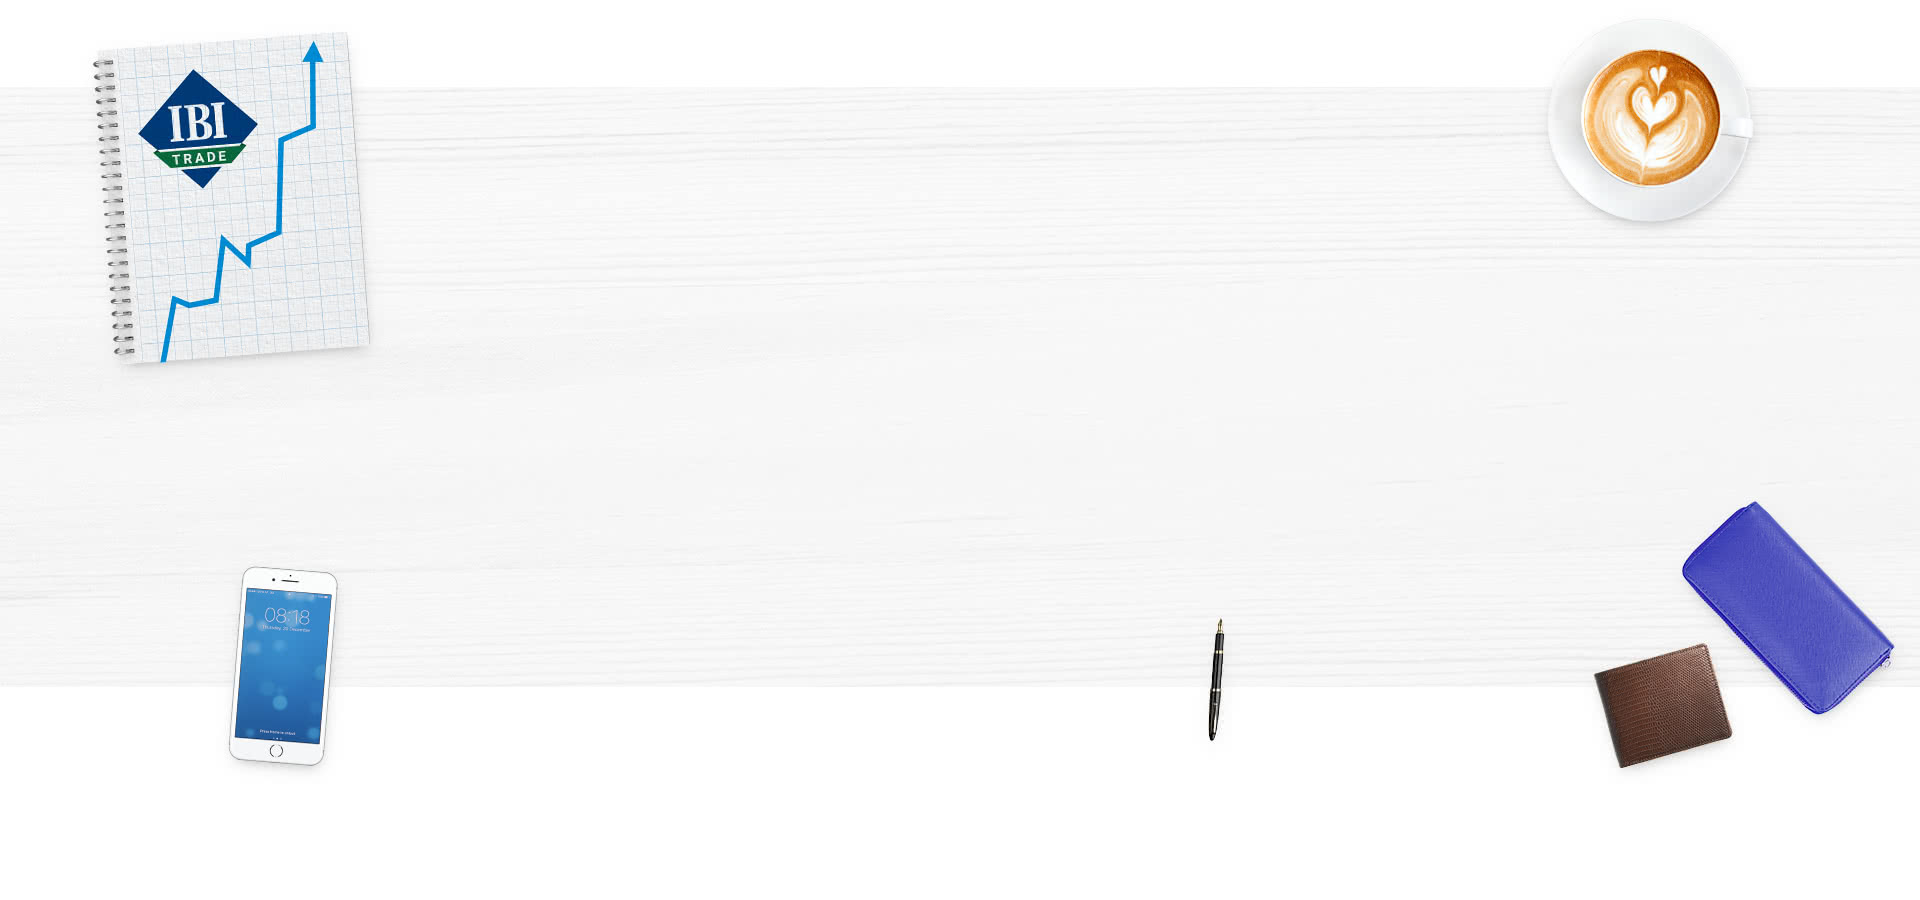
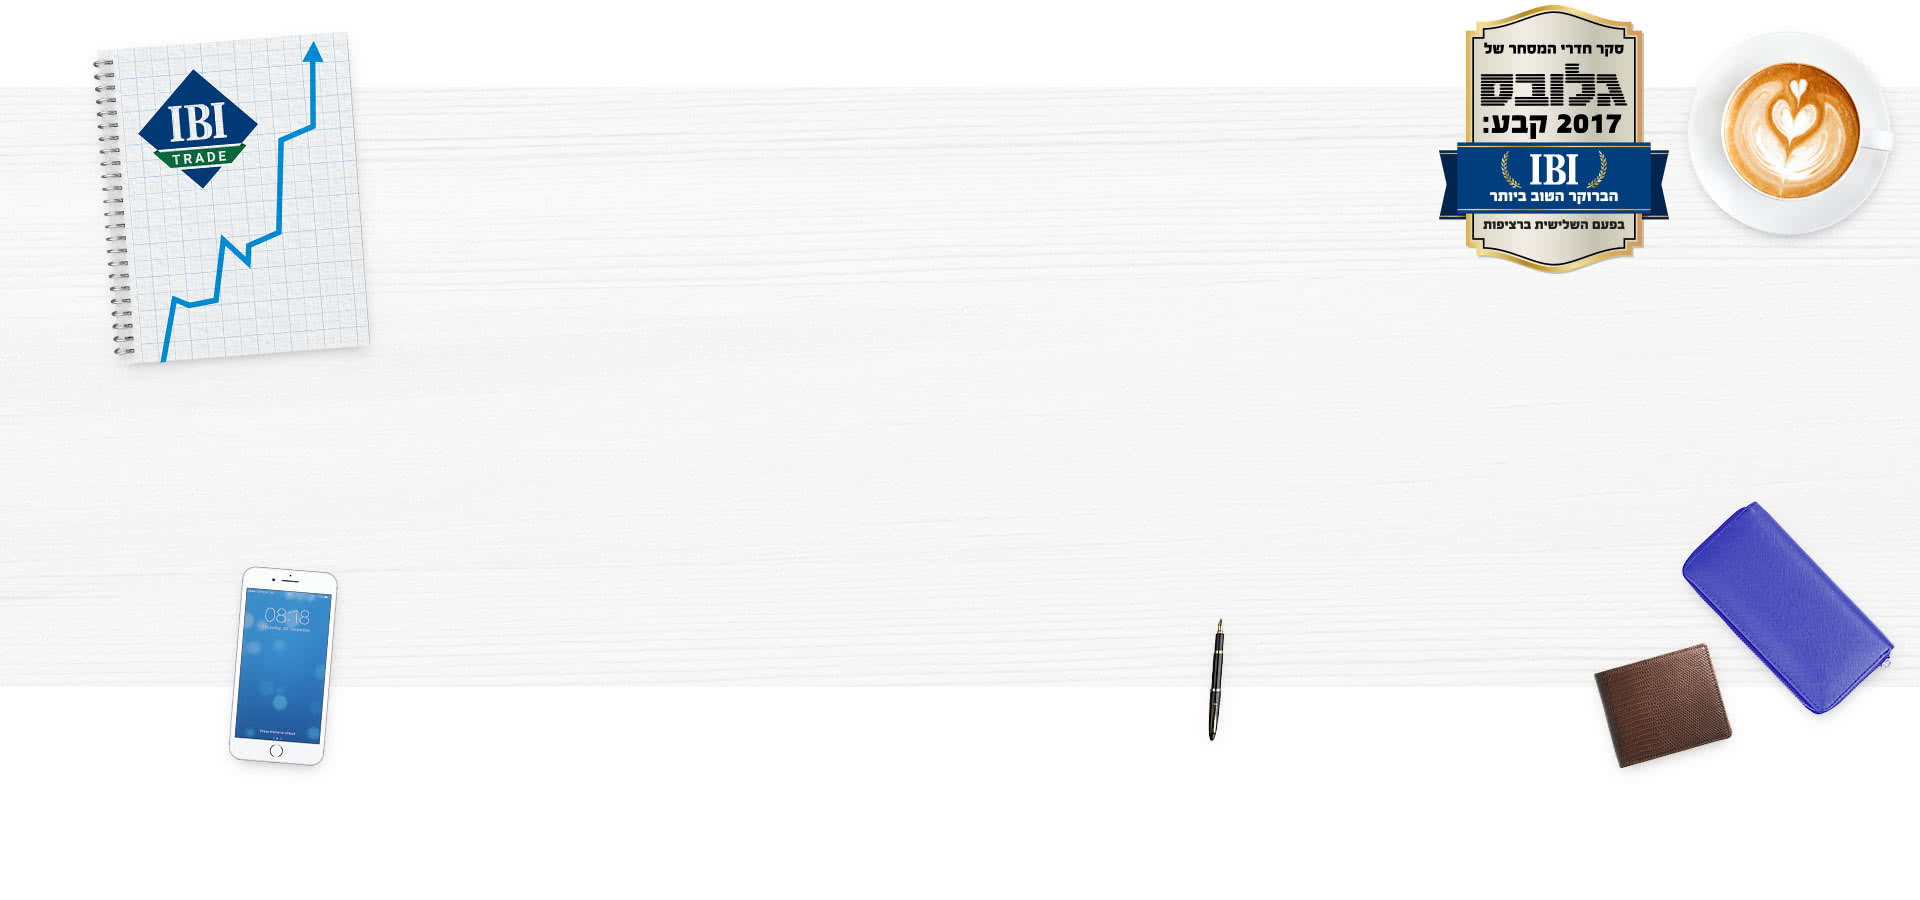
Added new optimized images to site. Changed style to links in copyirght mobile version.

Changed region(s): [[0.75, 0.0, 0.9688, 0.3111], [0.9062, 0.2489, 0.9375, 0.28]]

diff --git a/site/styles/content_mobile.less b/site/styles/content_mobile.less
@@ -216,7 +216,7 @@ section#footer div.footer_information h3 {
 	margin: 0;
 }
 
-section#footer div.footer_information a:last-of-type {
+section#footer div.footer_information > a {
 	.account-link(@color_gold);
 
 	display: block;
@@ -302,5 +302,5 @@ footer div.copyright {
 
 footer div.copyright a {
 	text-decoration: none;
-	color: @color_gold;
+	color: #08b8c7;
 }
